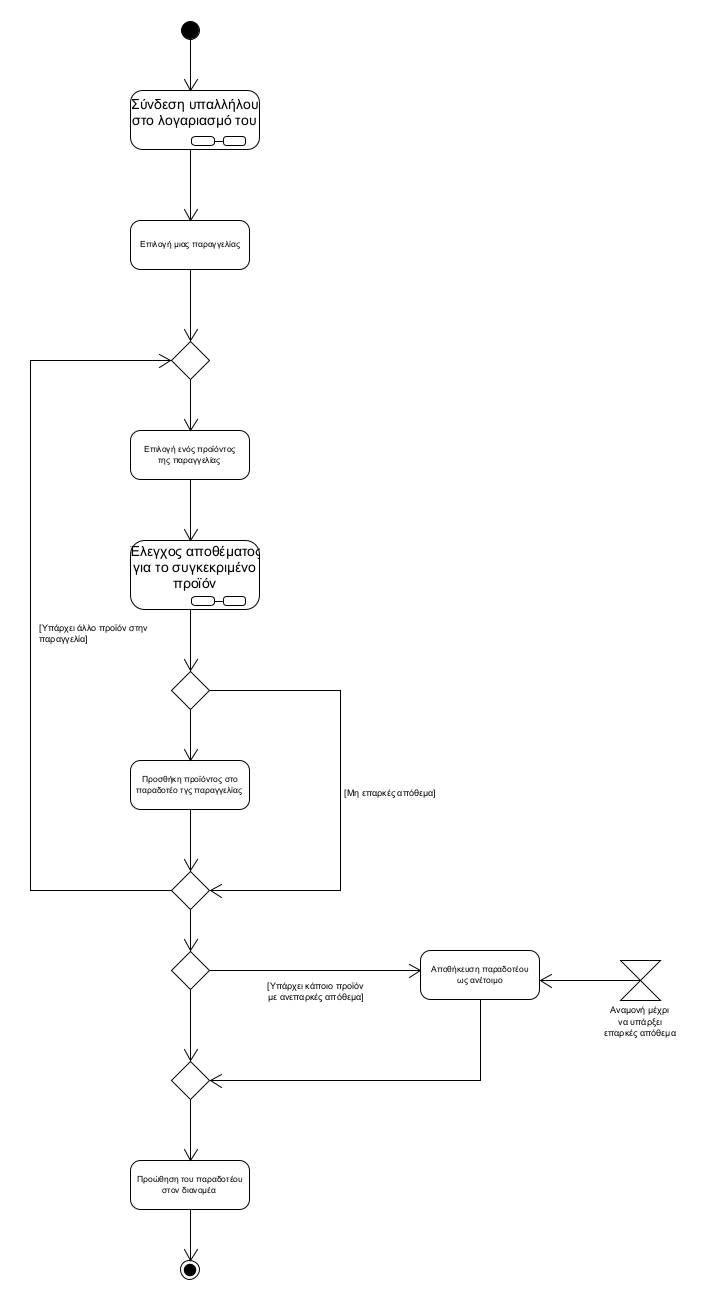
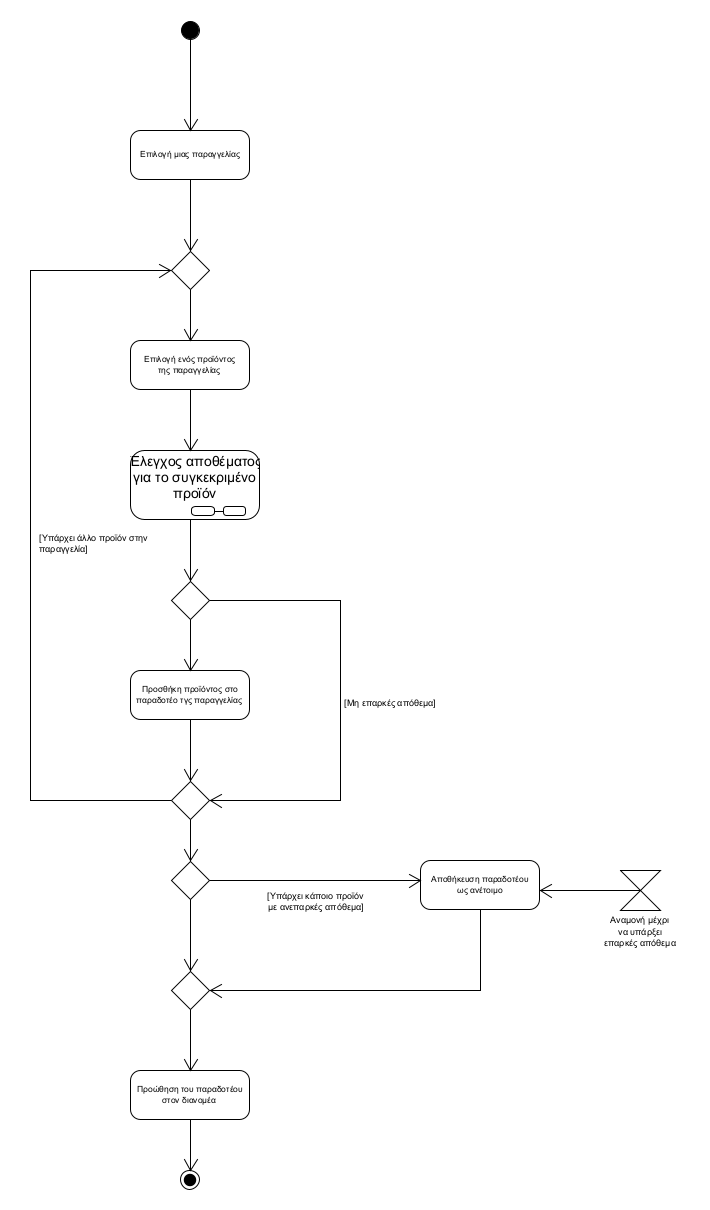
Removal of identification from activity,sequence diagrams and use case descriptions

diff --git a/Use_case_descriptions/Products_catalogue_update.md b/Use_case_descriptions/Products_catalogue_update.md
@@ -4,26 +4,26 @@
 **Ενδιαφερόμενοι**:  
 Υπάλληλος ανανέωσης καταλόγου: Θέλει να ανανεώσει/τροποποιήσει τον κατάλογο των προϊόντων που διατίθενται προς πώληση από το κατάστημα
 Διαχειριστής(Admin): Θέλει να διασφαλίση την έγκαιρη και σωστή ανανέωση του καταλόγου  
-Προϋποθέσεις:  
-Πρέπει να έχει γίνει αίτημα ανανέωσης του καταλόγου από τον διαχειριστή
+**Προϋποθέσεις:**  
+1.Πρέπει να έχει γίνει αίτημα ανανέωσης του καταλόγου από τον διαχειριστή  
+2.Ο υπάλληλος έχει συνδεθεί στο λογαριασμό του
 
 
 **Βασική ροή**  
-1. Ο υπάλληλος ανανέωσης καταλόγου συνδέεται στο λογαριασμό του
-2. Ελέγχει τα αιτήματα για ανανέωση του καταλόγου του καταστήματος από τον διαχειριστή
-3. Επιλέγει ένα αίτημα
-4. Κάνει την κατάλληλη ως προς το αίτημα ανανέωση του καταλόγου
-5. Ενημερώνει τον διαχειριστή για την εκτέλεσή της
-6. Το σύστημα ενημερώνει τον κατάλογο
-7. Τα βήμα 3 έως 6 επαναλαμβάνονται αν ο υπάλληλος θέλει να εξυπηρετήσει κάποιο άλλο αίτημα
+1. Ελέγχει τα αιτήματα για ανανέωση του καταλόγου του καταστήματος από τον διαχειριστή
+2. Επιλέγει ένα αίτημα
+3. Κάνει την κατάλληλη ως προς το αίτημα ανανέωση του καταλόγου
+4. Ενημερώνει τον διαχειριστή για την εκτέλεσή της
+5. Το σύστημα ενημερώνει τον κατάλογο
+6. Τα βήμα 3 έως 6 επαναλαμβάνονται αν ο υπάλληλος θέλει να εξυπηρετήσει κάποιο άλλο αίτημα
 
 
 
 **Εναλλακτικές ροές**  
-2α. Δεν υπάρχουν διαθέσιμα αιτήματα για ανανέωση του καταλόγου
+1α. Δεν υπάρχουν διαθέσιμα αιτήματα για ανανέωση του καταλόγου
 1. Η περίπτωση χρήσης τερματίζει
 
-4α. Το αίτημα δεν μπορεί να εκτελεστεί, λόγω λάθους στα στοιχεία του προϊόντος στο μήνυμα του διαχειριστή  
+3α. Το αίτημα δεν μπορεί να εκτελεστεί, λόγω λάθους στα στοιχεία του προϊόντος στο μήνυμα του διαχειριστή  
 1. Ο υπάλληλος ενημερώνει τον διαχειριστή για το πρόβλημα.
 2. Η περίπτωση χρήσης τερματίζει 
    

diff --git a/Use_case_descriptions/Products_collection.md b/Use_case_descriptions/Products_collection.md
@@ -4,25 +4,25 @@
 **Ενδιαφερόμενοι**:  
 Υπάλληλος ετοιμασίας της παραγγελίας: Θέλει να συγκεντώσει όλα τα προϊόντα της παραγγελίας
 **Προϋποθέσεις**:  
-Κάθε παραγγελία έχει τουλάχιστον ένα προϊόν
+1.Κάθε παραγγελία έχει τουλάχιστον ένα προϊόν  
+2.Ο υπάλληλος έχει συνδεθεί στο λογαριασμό του
 
 
 **Βασική ροή**
-1. Ο υπάλληλος ετοιμασίας παραγγελίας συνδέεται στο λογαριασμό του
-2. Επιλέγει μία από τις παραγγελίες που έχουν γίνει
-3. Επιλέγει ένα από τα προϊόντα της παραγγελίας
-4. Κάνει έλεγχο αποθέματος του προϊόντος 
-5. Προσθέτει το προϊόν στο παραδοτέο της παραγγελίας
-6. Επανάληψη των βημάτων 3-5 για όλα τα προϊόντα της παραγγελίας
-7. Προώθηση του παραδοτέου σε κάποιο διανομέα
+1. Επιλέγει μία από τις παραγγελίες που έχουν γίνει
+2. Επιλέγει ένα από τα προϊόντα της παραγγελίας
+3. Κάνει έλεγχο αποθέματος του προϊόντος 
+4. Προσθέτει το προϊόν στο παραδοτέο της παραγγελίας
+5. Επανάληψη των βημάτων 3-5 για όλα τα προϊόντα της παραγγελίας
+6. Προώθηση του παραδοτέου σε κάποιο διανομέα
 
 
 **Εναλλακτικές ροές**  
-5α. Ανεπαρκές απόθεμα για το συγκεκριμένο προϊόν    
+4α. Ανεπαρκές απόθεμα για το συγκεκριμένο προϊόν    
   1. Αποστολή μηνύματος σε υπάλληλο εξυπηρέτησης πελατών για ενημέρωση του  πελάτη για καθυστέρηση παράδοσης της παραγγελίας του
   2. Επιστροφή στον βήμα 3.  
 
-7α. Υπάρχει κάποιο προϊόν με ανεπαρκές απόθεμα  
+6α. Υπάρχει κάποιο προϊόν με ανεπαρκές απόθεμα  
   1. Αποθήκευση του παραδοτέου ως ανέτοιμο
   2. Όταν γίνει επαρκές το απόθεμα, αυτόματη συμπλήρωση σε όποιο προϊόν χρειάζεται
   3. Προώθηση σε διανομέα για παράδοση

diff --git a/Use_case_descriptions/Customer_service.md b/Use_case_descriptions/Customer_service.md
@@ -3,24 +3,26 @@
 **Πρωτεύων Actor**: Υπάλληλος Εξυπηρέτησης πελατών  
 **Ενδιαφερόμενοι**:  
 Υπάλληλος Εξυπηρέτησης πελατών: Θέλει να απαντά στα μηνύματα των πελατών και να στέλνει σε αυτούς ενημερωτικά μηνύματα
-Πελάτες: Θέλουν να στέλνουν μηνύματα που αφορούν τις παραγγελίες τους
+Πελάτες: Θέλουν να στέλνουν μηνύματα που αφορούν τις παραγγελίες τους  
+**Προϋποθέσεις**  
+1.Ο υπάλληλος έχει συνδεθεί στο λογαριασμό του
+
 
 
 **Βασική ροή**  
-1. Ο υπάλληλος εξυπηρέτησης πελατών συνδέεται στο λογαριασμό του
-2. Το σύστημα του εμφανίζει τις διαθέσιμες ενέργειες,δηλαδή:  
+1. Το σύστημα του εμφανίζει τις διαθέσιμες ενέργειες,δηλαδή:  
    * Έλεγχος εισερχομένων μηνυμάτων
    * Αποστολή μηνυμάτων σε πελάτες
-3. Ο υπάλληλος ελέγχει τα εισερχόμενα μηνύματά του από πελατες
-4. Το σύστημα ενημερώνει το ιστορικό επικοινωνίας υπαλλήλου και πελάτη
-5. Επανάληψη του βήματος 2 μέχρι να αποσυνδεθεί ο υπάλληλος από το λογαριασμό του
+2. Ο υπάλληλος ελέγχει τα εισερχόμενα μηνύματά του από πελατες
+3. Το σύστημα ενημερώνει το ιστορικό επικοινωνίας υπαλλήλου και πελάτη
+4. Επανάληψη του βήματος 2 μέχρι να αποσυνδεθεί ο υπάλληλος από το λογαριασμό του
 
 
 **Εναλλακτικές ροές**  
-3α. Δεν υπάρχουν νέα μηνύματα πελατών  
+2α. Δεν υπάρχουν νέα μηνύματα πελατών  
 1. Το σύστημα εμφανίζει σχετικό μήνυμα 
    
-3β. Ο υπάλληλος στέλνει μήνυμα σε κάποιον πελάτη  
+2β. Ο υπάλληλος στέλνει μήνυμα σε κάποιον πελάτη  
 1. Σύνταξη του μηνυμάτων
 2. Αποστολή του μηνυμάτων
 

diff --git a/Use_case_descriptions/employee_data_management.md b/Use_case_descriptions/employee_data_management.md
@@ -4,20 +4,21 @@
 
 **Πρωτεύων Actor**: Υπάλληλος  
 **Ενδιαφερόμενοι**:  
-Υπάλληλος: Θέλει να δει και -αν το επιθυμεί- να μεταβάλει τα στοιχεία του
+Υπάλληλος: Θέλει να δει και -αν το επιθυμεί- να μεταβάλει τα στοιχεία του  
+**Προϋποθέσεις**  
+1.Ο υπάλληλος έχει συνδεθεί στο λογαριασμό του
 
 
 
 **Βασική ροή**
 
-1. Ο υπάλληλος συνδέεται στο λογαριασμό του
-2. Το σύστημα του εμφανίζει τα στοιχεία που αυτός έχει καταχωρήσει(με δυνατότητα τροποποίησης)
-3. Ο υπάλληλος ελέγχει χωρίς να τα τροποποιήσει
+1. Το σύστημα του εμφανίζει τα στοιχεία που αυτός έχει καταχωρήσει(με δυνατότητα τροποποίησης)
+2. Ο υπάλληλος ελέγχει χωρίς να τα τροποποιήσει
 
 
 
 **Εναλλακτικές ροές**  
-3α. Ο υπάλληλος θέλει να τροποποιήσει τα στοιχεία του
+2α. Ο υπάλληλος θέλει να τροποποιήσει τα στοιχεία του
 
 1. Ο υπάλληλος κάνει όσες αλλαγές επιθυμεί στα στοιχεία του
 2. Το σύστημα αποθηκεύει τις αλλαγές στα στοιχεία του υπαλλήλου

diff --git a/Use_case_descriptions/Reserve_check.md b/Use_case_descriptions/Reserve_check.md
@@ -4,7 +4,7 @@
 **Ενδιαφερόμενοι**:  
 Υπάλληλος ετοιμασίας της παραγγελίας: Θέλει να ελέγξει αν υπάρχει επαρκές απόθεμα  
 **Προϋποθέσεις**:  
-Ο υπάλληλος πρέπει να έχει συνδεθεί στο λογαριασμό του
+1.Ο υπάλληλος πρέπει να έχει συνδεθεί στο λογαριασμό του
 
 
 
